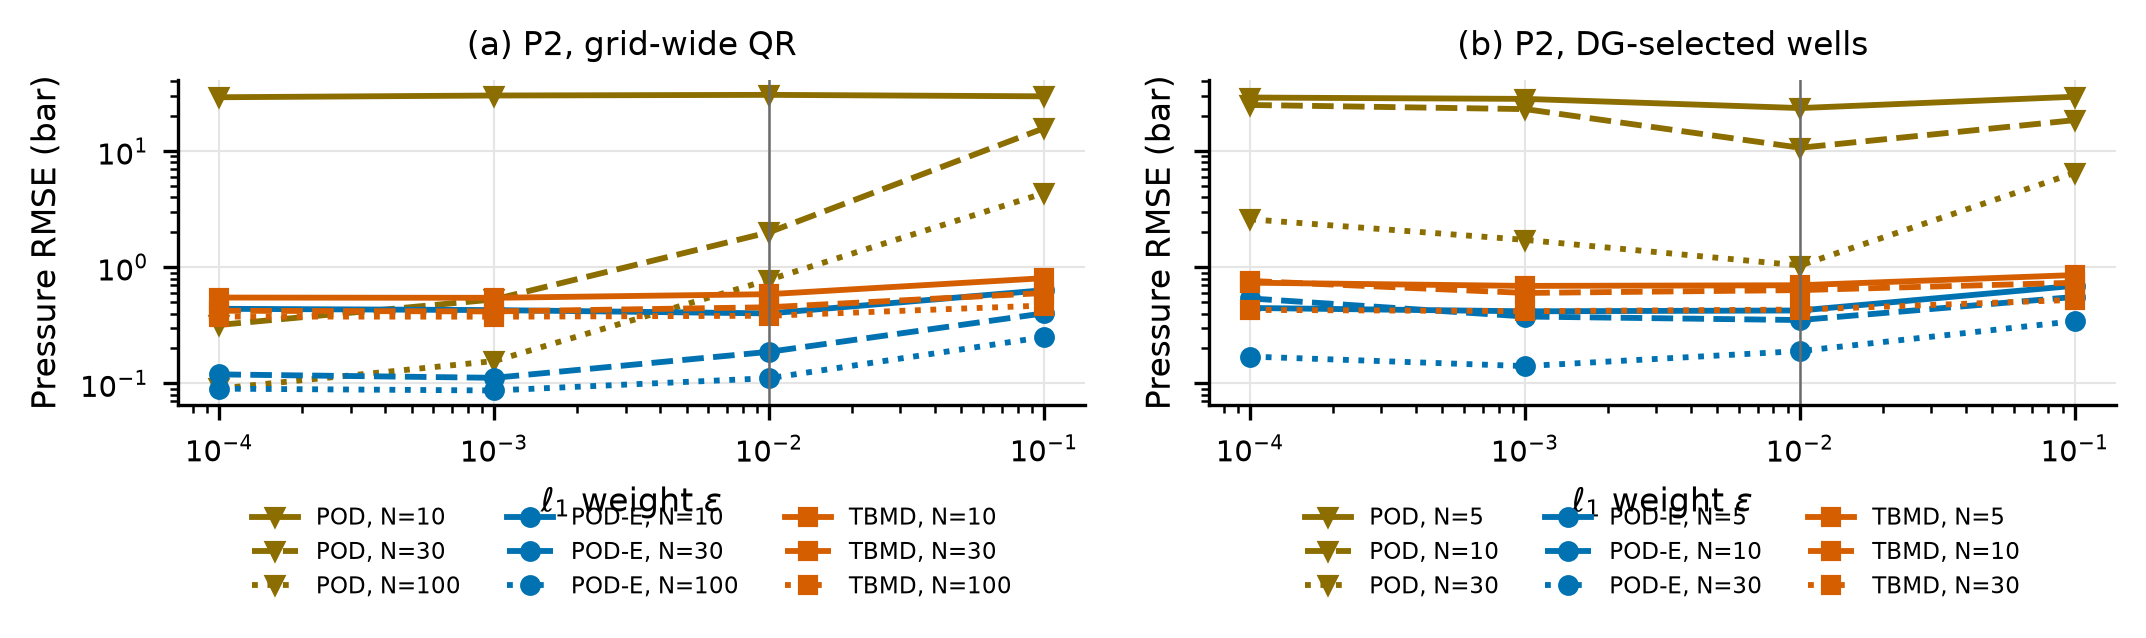
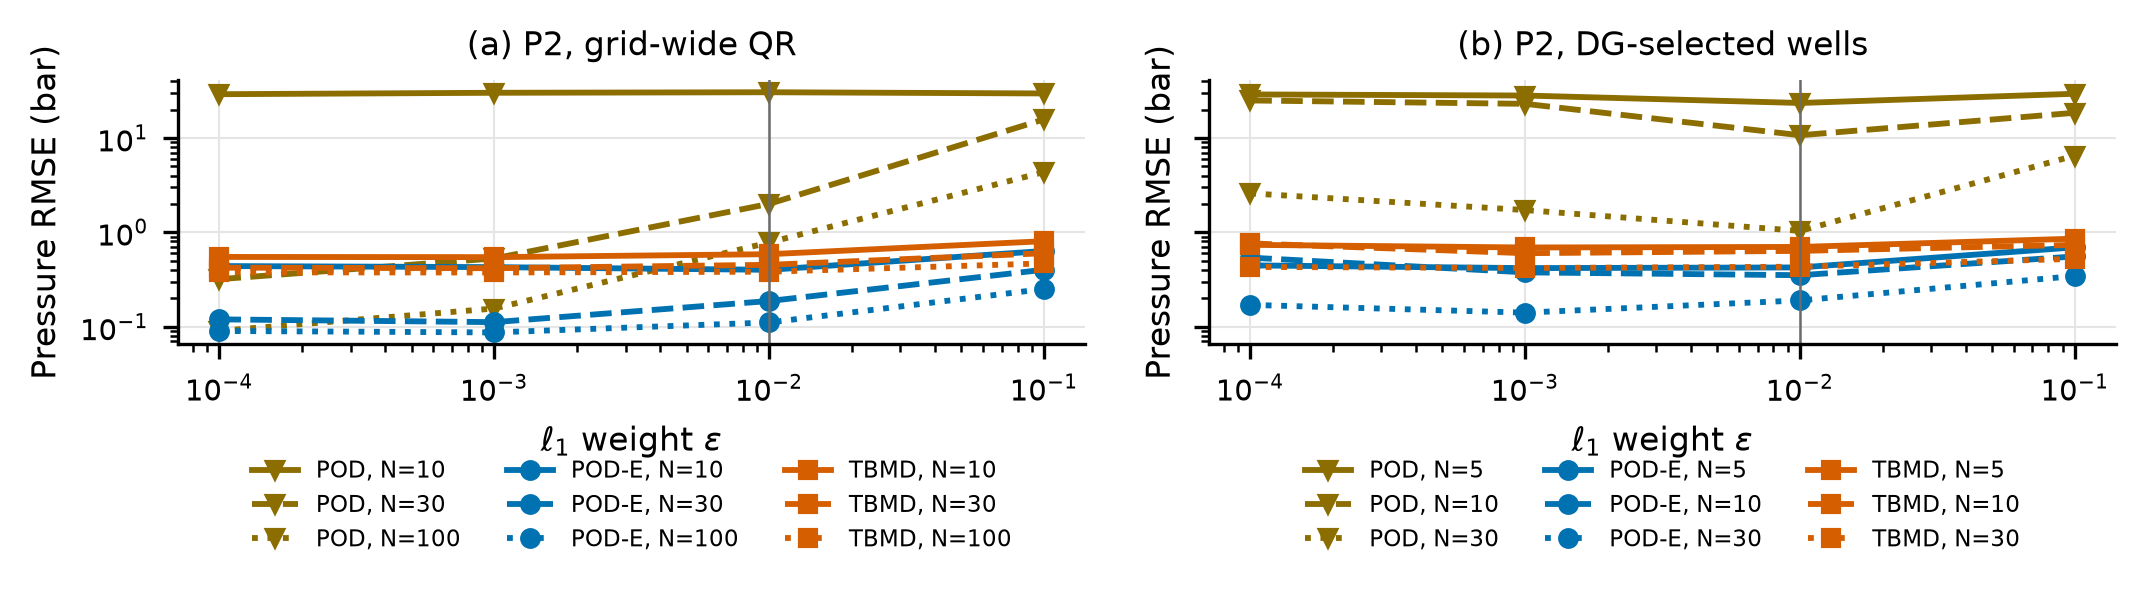
fix(studies): correct supplementary table references and Fig. S1 legend
Supplementary tables referred to the main P2 pressure table as Table 2;
it is Table 1 in the compiled manuscript. Move the Fig. S1 legend below
the axis label it overlapped, and let wide LaTeX tables shrink to the
line width. No numerical values change; SHA256SUMS updated.

diff --git a/studies/brugge_sparse_sensing/scripts/make_latex_tables.py b/studies/brugge_sparse_sensing/scripts/make_latex_tables.py
@@ -1,6 +1,6 @@
 """LaTeX tables for the manuscript and supplement, generated from outputs/key_numbers.json and
-outputs/e6_cost.json. Outputs: outputs/tab_main.tex (Table 2, P2 pressure), outputs/tab_cost.tex
-(Table 3), outputs/tabS_P1.tex, outputs/tabS_So.tex (supplement)."""
+outputs/e6_cost.json. Outputs: outputs/tab_main.tex (Table 1, P2 pressure), outputs/tab_cost.tex
+(Table 2), outputs/tabS_P1.tex, outputs/tabS_So.tex (supplement)."""
 import json
 import sys
 from pathlib import Path
@@ -32,7 +32,7 @@ def fmt(v, sd, scale=1.0):
 def table(P, metric, scale, caption, label):
     lines = ["\\begin{table}[tbp]", "\\centering", "\\scriptsize", "\\setlength{\\tabcolsep}{2.5pt}",
              f"\\caption{{{caption}}}", f"\\label{{{label}}}",
-             "\\begin{tabular}{@{}lcccccc@{}}", "\\toprule",
+             "\\begin{adjustbox}{max width=\\linewidth}", "\\begin{tabular}{@{}lcccccc@{}}", "\\toprule",
              " & \\multicolumn{3}{c}{Grid-wide channels} & \\multicolumn{2}{c}{Wells ($p$, $S_o$)} & Wells ($p$) \\\\",
              "\\cmidrule(lr){2-4}\\cmidrule(lr){5-6}\\cmidrule(l){7-7}",
              "Method & $N=10$ & $N=30$ & $N=100$ & $N=10$ & $N=30$ & $N=30$ \\\\", "\\midrule"]
@@ -47,7 +47,7 @@ def table(P, metric, scale, caption, label):
             else:
                 cells.append("--")
         lines.append(name + " & " + " & ".join(cells) + " \\\\")
-    lines += ["\\bottomrule", "\\end{tabular}", "\\end{table}"]
+    lines += ["\\bottomrule", "\\end{tabular}", "\\end{adjustbox}", "\\end{table}"]
     return "\n".join(lines) + "\n"
 
 
@@ -59,10 +59,10 @@ def table(P, metric, scale, caption, label):
     "tab:main"))
 (OUT / "tabS_P1.tex").write_text(table(
     "P1", "rmse_p", 1.0,
-    "As Table~2 of the main text, for protocol P1 (within-scenario temporal hold-out; prior = persistence).", "tab:S_P1"))
+    "As Table~1 of the main text, for protocol P1 (within-scenario temporal hold-out; prior = persistence).", "tab:S_P1"))
 (OUT / "tabS_So.tex").write_text(table(
     "P2", "rmse_so", 1e3,
-    "Oil-saturation RMSE ($\\times10^{-3}$) in protocol P2; layout as Table~2 of the main text. For pressure-only wells, "
+    "Oil-saturation RMSE ($\\times10^{-3}$) in protocol P2; layout as Table~1 of the main text. For pressure-only wells, "
     "$S_o$ is inferred through the joint basis.", "tab:S_So"))
 c = cost
 rows = [("POD basis (thin SVD)", "offline", f"{c['offline_pod_svd_s']:.2f} s"),

diff --git a/studies/brugge_sparse_sensing/outputs/tabS_So.tex b/studies/brugge_sparse_sensing/outputs/tabS_So.tex
@@ -2,8 +2,9 @@
 \centering
 \scriptsize
 \setlength{\tabcolsep}{2.5pt}
-\caption{Oil-saturation RMSE ($\times10^{-3}$) in protocol P2; layout as Table~2 of the main text. For pressure-only wells, $S_o$ is inferred through the joint basis.}
+\caption{Oil-saturation RMSE ($\times10^{-3}$) in protocol P2; layout as Table~1 of the main text. For pressure-only wells, $S_o$ is inferred through the joint basis.}
 \label{tab:S_So}
+\begin{adjustbox}{max width=\linewidth}
 \begin{tabular}{@{}lcccccc@{}}
 \toprule
  & \multicolumn{3}{c}{Grid-wide channels} & \multicolumn{2}{c}{Wells ($p$, $S_o$)} & Wells ($p$) \\
@@ -23,4 +24,5 @@ Configured wells, POD-E, LS & -- & -- & -- & 2787\,$\pm$\,1517 & 745\,$\pm$\,187
 Configured wells, TBMD, $\ell_1$ & -- & -- & -- & 4686\,$\pm$\,98 & 4251\,$\pm$\,24 & 15550\,$\pm$\,6471 \\
 \bottomrule
 \end{tabular}
+\end{adjustbox}
 \end{table}

diff --git a/studies/brugge_sparse_sensing/outputs/tab_main.tex b/studies/brugge_sparse_sensing/outputs/tab_main.tex
@@ -4,6 +4,7 @@
 \setlength{\tabcolsep}{2.5pt}
 \caption{Pressure RMSE (bar) in protocol P2, mean\,$\pm$\,standard deviation over the ten held-out control scenarios. Placement is QR (grid) or DG (wells) on the basis of the same row unless stated; $r=16$ in every fold. The prior row uses no measurements and is repeated across columns. Random: per-fold median over 20 placements.}
 \label{tab:main}
+\begin{adjustbox}{max width=\linewidth}
 \begin{tabular}{@{}lcccccc@{}}
 \toprule
  & \multicolumn{3}{c}{Grid-wide channels} & \multicolumn{2}{c}{Wells ($p$, $S_o$)} & Wells ($p$) \\
@@ -23,4 +24,5 @@ Configured wells, POD-E, LS & -- & -- & -- & 2.50\,$\pm$\,1.55 & 0.18\,$\pm$\,0.
 Configured wells, TBMD, $\ell_1$ & -- & -- & -- & 0.47\,$\pm$\,0.07 & 0.43\,$\pm$\,0.06 & 0.43\,$\pm$\,0.06 \\
 \bottomrule
 \end{tabular}
+\end{adjustbox}
 \end{table}

diff --git a/studies/brugge_sparse_sensing/outputs/tabS_P1.tex b/studies/brugge_sparse_sensing/outputs/tabS_P1.tex
@@ -2,8 +2,9 @@
 \centering
 \scriptsize
 \setlength{\tabcolsep}{2.5pt}
-\caption{As Table~2 of the main text, for protocol P1 (within-scenario temporal hold-out; prior = persistence).}
+\caption{As Table~1 of the main text, for protocol P1 (within-scenario temporal hold-out; prior = persistence).}
 \label{tab:S_P1}
+\begin{adjustbox}{max width=\linewidth}
 \begin{tabular}{@{}lcccccc@{}}
 \toprule
  & \multicolumn{3}{c}{Grid-wide channels} & \multicolumn{2}{c}{Wells ($p$, $S_o$)} & Wells ($p$) \\
@@ -23,4 +24,5 @@ Configured wells, POD-E, LS & -- & -- & -- & 0.05\,$\pm$\,0.03 & 0.03\,$\pm$\,0.
 Configured wells, TBMD, $\ell_1$ & -- & -- & -- & 0.31\,$\pm$\,0.03 & 0.32\,$\pm$\,0.04 & 0.31\,$\pm$\,0.03 \\
 \bottomrule
 \end{tabular}
+\end{adjustbox}
 \end{table}

diff --git a/studies/brugge_sparse_sensing/scripts/make_figures.py b/studies/brugge_sparse_sensing/scripts/make_figures.py
@@ -237,7 +237,7 @@ for k, sensing in enumerate(("grid", "wells-joint")):
     ax[k].set(xscale="log", yscale="log", xlabel="$\\ell_1$ weight $\\varepsilon$", ylabel="Pressure RMSE (bar)",
               title=f"({'ab'[k]}) P2, {'grid-wide QR' if sensing=='grid' else 'DG-selected wells'}")
 for a in ax:
-    a.legend(frameon=False, fontsize=5.5, ncol=3, loc="upper center", bbox_to_anchor=(0.5, -0.25))
+    a.legend(frameon=False, fontsize=5.5, ncol=3, loc="upper center", bbox_to_anchor=(0.5, -0.36))
 fig.tight_layout()
 save(fig, "figS1_l1_sensitivity")
 
